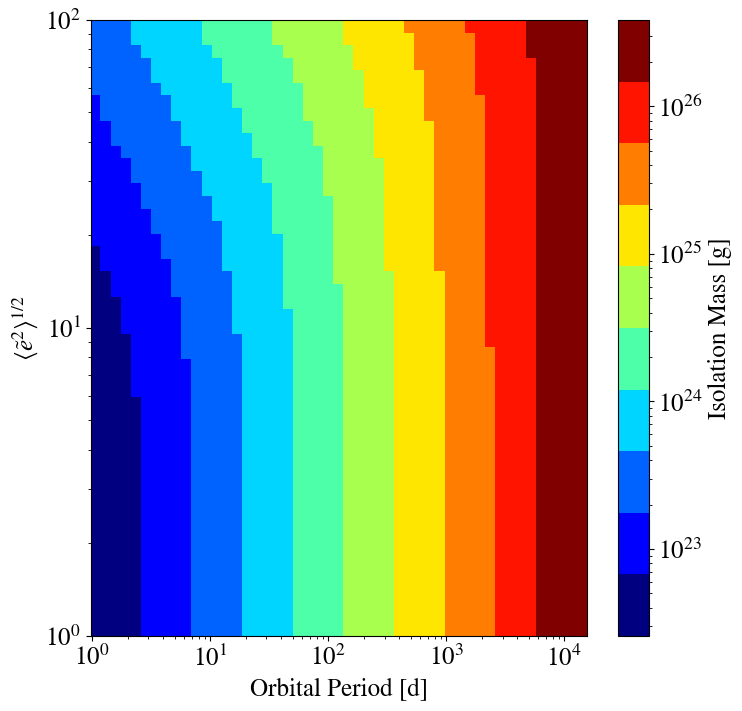
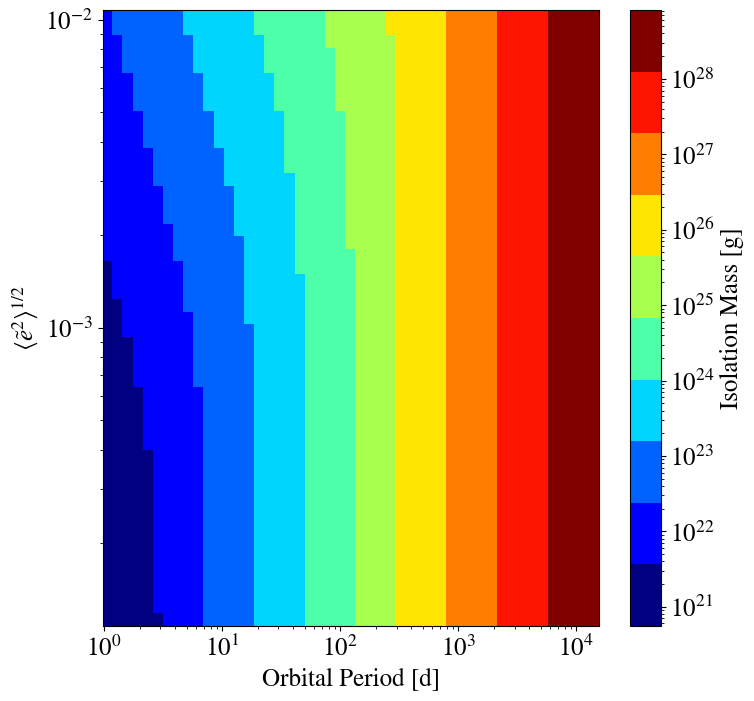
Change eccentricties in plots to non-hill values, add plot for stopping and radial drift times due to gas

Changed region(s): [[0.0, 0.0, 0.9919, 0.9886], [0.217, 0.4494, 0.279, 0.5093]]

diff --git a/makeFig.py b/makeFig.py
@@ -7,6 +7,7 @@ import pynbody as pb
 import natsort as ns
 import glob as gl
 import os
+import profileTools as pt
 
 from astropy import units as u
 from astropy.constants import G
@@ -36,19 +37,22 @@ def lnLam(b1, b2):
 
 sigma1 = 6
 f_disk = 1
-z = 1
 h = 1
 alpha = 1
 
+# Values for M stars from Backus + Quinn 2016
+q = 0.59
+T0 = 130
+mu = 2.34 # Hayashi 1981
+
+C_D = 1
+dust_to_gas = [0.01, 0.1, 0.5]
+
 rhop = 2
-m_central = (0.14*u.M_sun).to(u.g).value
+m_central = (0.13*u.M_sun).to(u.g).value
 Rp = (50*u.km).to(u.cm).value
 mp = 4/3*np.pi*Rp**3*rhop
 f_pl = [1., 3., 6.]
-
-# R in AU, returns units of g cm^-2
-def surf_den(r, sigma1, f_disk, z, alpha):
-    return sigma1*f_disk*z*r**(-alpha)*(m_central*u.g).to(u.M_sun).value**h
 
 def e_i(e_h):
     return e_h*(mp/(3*m_central))**(1/3)
@@ -56,31 +60,36 @@ def e_i(e_h):
 def e_h(e):
     return e*(mp/(3*m_central))**(-1/3)
 
-a_vals_au = np.logspace(-2, 0.8)
+a_vals_au = np.logspace(-2, 0.5)
 e_h_vals = np.logspace(0, 2)
 
-t_relax_vals = np.empty((len(a_vals_au), len(e_h_vals)))
-t_coll_vals = np.empty((len(a_vals_au), len(e_h_vals)))
-t_eq_eh_vals = np.empty((len(f_pl), len(a_vals_au)))
-
 a_vals = (a_vals_au*u.AU).to(u.cm).value
-t_orbit = (2*np.pi*np.sqrt((a_vals)**3/(G.cgs.value*m_central))*u.s).to(u.d).value
+t_orbit = pt.t_orb(a_vals, m_central)
+t_orbit_d = (t_orbit*u.s).to(u.d).value
+
+sigma_pl = pt.sigma_pl(alpha, sigma1, a_vals_au, f_disk)
+
+omega = np.sqrt(G.cgs.value*m_central/a_vals**3)
+vk = np.sqrt(G.cgs.value*m_central/a_vals)
 
 def plot_trel_tcoll_eq_gf():
 	file_str = 'figures/time_eq_gf.' + fmt
 	if not clobber and os.path.exists(file_str):
 		return
 
+	t_relax_vals = np.empty((len(a_vals_au), len(e_h_vals)))
+	t_coll_vals = np.empty((len(a_vals_au), len(e_h_vals)))
+	t_eq_e_vals = np.empty((len(f_pl), len(a_vals_au)))
+
 	for f_pl_idx in range(len(f_pl)):
 	    for idx in range(len(a_vals)):
 	        for idx1 in range(len(e_h_vals)):
 	            e_std = e_i(e_h_vals[idx1])
 	            i_std = e_std/2
-	            Sigma = surf_den(a_vals_au[idx], sigma1, f_disk, z, alpha)
 	            omega = np.sqrt(G.cgs.value*m_central/a_vals[idx]**3)
 	            vk = np.sqrt(G.cgs.value*m_central/a_vals[idx])
 	            sigma = np.sqrt(e_std**2 + i_std**2)*vk
-	            n = Sigma*omega/(2*mp*sigma)
+	            n = sigma_pl[idx]*omega/(2*mp*sigma)
 
 	            bmin = 2*G.cgs.value*mp/sigma**2
 	            bmax = a_vals[idx]
@@ -95,27 +104,26 @@ def plot_trel_tcoll_eq_gf():
 
 	        first_ind = np.where(t_relax_vals[idx] > t_coll_vals[idx])[0]
 	        if len(first_ind) > 0:
-	            t_eq_eh_vals[f_pl_idx][idx] = e_h_vals[first_ind][0]
+	            t_eq_e_vals[f_pl_idx][idx] = e_i(e_h_vals[first_ind][0])
 	        else:
-	            t_eq_eh_vals[f_pl_idx][idx] = np.inf
+	            t_eq_e_vals[f_pl_idx][idx] = np.inf
 
-	eh_gf_vals = np.empty((len(f_pl), len(a_vals)))
+	e_gf_vals = np.empty((len(f_pl), len(a_vals)))
 
 	for f_pl_idx in range(len(f_pl)):
 	    for idx in range(len(a_vals)):
-	        e_gf_vals = np.sqrt(4*mp*a_vals[idx]/(3*m_central*(f_pl[f_pl_idx]*Rp)))
-	        eh_gf_vals[f_pl_idx][idx] = e_h(e_gf_vals)
+	        e_gf_vals[f_pl_idx][idx] = np.sqrt(4*mp*a_vals[idx]/(3*m_central*(f_pl[f_pl_idx]*Rp)))
 
 	fig, axes = plt.subplots(figsize=(8,8))
 	for idx, val in enumerate(f_pl):
 	    c = next(axes._get_lines.prop_cycler)['color']
-	    axes.plot(t_orbit, t_eq_eh_vals[idx], label=r'f$_{pl}$ = ' + str(int(val)), linestyle='-', color=c)
-	    axes.plot(t_orbit, eh_gf_vals[idx], linestyle='--', color=c)
+	    axes.plot(t_orbit_d, t_eq_e_vals[idx], label=r'f$_{pl}$ = ' + str(int(val)), linestyle='-', color=c)
+	    axes.plot(t_orbit_d, e_gf_vals[idx], linestyle='--', color=c)
 	axes.legend()
 	axes.set_xscale('log')
 	axes.set_yscale('log')
 	axes.set_xlabel(r'Orbital Period [d]')
-	axes.set_ylabel(r'Equilibirum $\left< \tilde{e}^{2} \right>^{1/2}$')
+	axes.set_ylabel(r'Equilibirum $\left< e^{2} \right>^{1/2}$')
 	plt.savefig(file_str, format=fmt, bbox_inches='tight')
 
 def plot_m_iso():
@@ -123,28 +131,74 @@ def plot_m_iso():
 	if not clobber and os.path.exists(file_str):
 		return
 
+	def func(x, e_std, sigma_pl, a_val):
+	    i_std = e_std/2
+	    
+	    etilde, itilde = e_std*(10**x/(3*m_central))**(-1/3), i_std*(10**x/(3*m_central))**(-1/3)
+	    btilde = 2/np.sqrt(3)*np.sqrt(9 + etilde**2 + itilde**2)
+	    
+	    return np.log10(4*np.pi*a_val**2*btilde*sigma_pl*(10**x/(3*m_central))**(1/3)) - x
+
 	m_iso_vals = np.empty((len(a_vals_au), len(e_h_vals)))
 	for idx in range(len(a_vals)):
 	    for idx1 in range(len(e_h_vals)):
-	        def func(x):
-	            Sigma = surf_den(a_vals_au[idx], sigma1, f_disk, z, alpha)
-	            e_std = e_i(e_h_vals[idx1])
-	            i_std = e_std/2
-	            return np.log10(4*np.pi*a_vals[idx]**2*Sigma*2/np.sqrt(3)*(10**x/(3*m_central))**(1/3)* \
-	                            np.sqrt(9 + (10**x/(3*m_central))**(-2/3)*(e_std**2 + i_std**2))) - x
-	        m_iso_vals[idx][idx1] = 10**optimize.root(func, 25).x
+	        m_iso_vals[idx][idx1] = 10**optimize.root(func, 20, args=(e_i(e_h_vals[idx1]), sigma_pl[idx], a_vals[idx])).x
+
+	e_eq_vals = np.empty((len(dust_to_gas), len(t_orbit)))
+	for idx in range(len(dust_to_gas)):
+		cs = pt.soundspeed(T0, mu, q, a_vals_au)
+		vgas = pt.v_gas((m_central*u.g).to(u.M_sun).value, a_vals, cs, q)
+		rhogas = pt.rho_gas(cs, omega, sigma_pl, dust_to_gas[idx])
+		e_eq_vals[idx] = pt.e_eq(omega, sigma_pl, mp, Rp, C_D, vk, rhogas, vgas)
 
 	from matplotlib import cm
 	fig, axes = plt.subplots(figsize=(8,8))
 	cmap = mpl.cm.get_cmap('jet', 10)
-	cax = axes.pcolormesh(t_orbit, e_h_vals, np.flipud(np.rot90(m_iso_vals)), \
+	cax = axes.pcolormesh(t_orbit_d, e_i(e_h_vals), np.flipud(np.rot90(m_iso_vals)), \
 	                      norm=mpl.colors.LogNorm(), cmap=cmap)
+	for idx in range(len(dust_to_gas)):
+		axes.plot(t_orbit_d, e_eq_vals[idx], color='white')
 	cb = fig.colorbar(cax)
 	cb.set_label('Isolation Mass [g]')
 	axes.set_xlabel(r'Orbital Period [d]')
-	axes.set_ylabel(r'$\left< \tilde{e}^{2} \right>^{1/2}$')
+	axes.set_ylabel(r'$\left< e^{2} \right>^{1/2}$')
 	axes.set_xscale('log')
 	axes.set_yscale('log')
+	axes.set_xlim(np.min(t_orbit_d), np.max(t_orbit_d))
+	axes.set_ylim(np.min(e_i(e_h_vals)), np.max(e_i(e_h_vals)))
+	plt.savefig(file_str, format=fmt, bbox_inches='tight')
+
+def plot_gasdrag():
+	file_str = 'figures/gasdrag.' + fmt
+	if not clobber and os.path.exists(file_str):
+		return
+
+	t_stop_vals = np.empty((len(dust_to_gas), len(t_orbit)))
+	t_drift_vals = np.empty((len(dust_to_gas), len(t_orbit)))
+
+	for idx in range(len(dust_to_gas)):
+	    cs = pt.soundspeed(T0, mu, q, a_vals_au)
+	    vgas = pt.v_gas((m_central*u.g).to(u.M_sun).value, a_vals, cs, q)
+	    rhogas = pt.rho_gas(cs, omega, sigma_pl, dust_to_gas[idx])
+	    e_std = pt.e_eq(omega, sigma_pl, mp, Rp, C_D, vk, rhogas, vgas)
+	    t_stop = pt.t_stop(mp, Rp, C_D, rhogas, vgas)
+	    t_stop_vals[idx] = t_stop
+	    vr = 2*vgas/((t_stop*omega)+(1/(t_stop*omega)))
+	    t_drift_vals[idx] = a_vals/vr
+
+	fig, axes = plt.subplots(figsize=(16,8), nrows=1, ncols=2)
+	for idx in range(len(dust_to_gas)):
+	    axes[0].plot(t_orbit_d, t_stop_vals[idx]/t_orbit, label='d/g = '+str(dust_to_gas[idx]))
+	    axes[1].plot(t_orbit_d, t_drift_vals[idx]/t_orbit)
+	axes[0].set_xscale('log')
+	axes[0].set_yscale('log')
+	axes[0].set_xlabel('Orbital Period [d]')
+	axes[1].set_xlabel('Orbital Period [d]')
+	axes[0].set_ylabel('Stopping Time [orbits]')
+	axes[1].set_ylabel('Radial Drift Time [orbits]')
+	axes[1].set_xscale('log')
+	axes[1].set_yscale('log')
+	axes[0].legend()
 	plt.savefig(file_str, format=fmt, bbox_inches='tight')
 
 def make_plot():
@@ -162,5 +216,6 @@ def make_plot():
 
 	plt.savefig(file_str, format=fmt, bbox_inches='tight')
 
-plot_trel_tcoll_eq_gf()
+#plot_trel_tcoll_eq_gf()
 plot_m_iso()
+#plot_gasdrag()

diff --git a/main.tex b/main.tex
@@ -104,7 +104,7 @@ Figure \ref{fig:time_eq_gf} shows the Hill eccentricity required for these two t
 
 \begin{figure}
     \begin{center}
-    \includegraphics[width=0.5\columnwidth]{figures/time_eq_gf.png}
+    \includegraphics[width=0.4\columnwidth]{figures/time_eq_gf.png}
     \caption{Caption goes here.\label{fig:time_eq_gf}}
     \end{center}
 \end{figure}
@@ -159,12 +159,19 @@ If the growing protoplanets stay on circular orbits, $\tilde{b} \approx 2 \sqrt{
     M_{iso} = \frac{8}{\sqrt{3}} \left(2 \pi \Sigma \right)^{3/2} 3^{3/4} \left( 3 M_{*} \right)^{-1/2} a^{3}
 \end{equation}
 
-At short orbital periods where oligarchic growth may not operate, $\tilde{b}$ also depends on $\tilde{e}$ and $\tilde{h}$, which are functions of the eccentricity and inclination of the planetesimals, along with the final isolation mass of the embryos. $M_{iso}$ must be solved for numerically, which is shown in figure \ref{fig:m_iso} as a function of orbital period and the initial rms Hill eccentricity of the planetesimals.  As expected, the isolation mass grows at larger orbital periods, as embryos have access to a wider region of the disk. With a sufficiently hot planetesimal population, the isolation mass also grows. These results imply that if oligarchic growth does not operate, embryos will form fewer and larger. It is also plausible that the total mass in embryos will be larger, as a dynamically hot planetesimal population that is difficult to accrete will not form.
+At short orbital periods where oligarchic growth may not operate, $\tilde{b}$ also depends on $\tilde{e}$ and $\tilde{h}$, which are functions of the eccentricity and inclination of the planetesimals, along with the final isolation mass of the embryos. $M_{iso}$ must be solved for numerically, which is shown in figure \ref{fig:m_iso} as a function of orbital period and the initial rms Hill eccentricity of the planetesimals. The white curves show the equilibrium values of the eccentricity for a dust of gas ratio of 0.5, 0.1 and 0.01 (top to bottom). As expected, the isolation mass grows at larger orbital periods, as embryos have access to a wider region of the disk. With a sufficiently hot planetesimal population, the isolation mass also grows. These results imply that if oligarchic growth does not operate, embryos will form fewer and larger. It is also plausible that the total mass in embryos will be larger, as a dynamically hot planetesimal population that is difficult to accrete will not form.
 
 \begin{figure}
     \begin{center}
-    \includegraphics[width=0.5\columnwidth]{figures/m_iso.png}
+    \includegraphics[width=0.4\columnwidth]{figures/m_iso.png}
     \caption{Caption goes here.\label{fig:m_iso}}
+    \end{center}
+\end{figure}
+
+\begin{figure}
+    \begin{center}
+    \includegraphics[width=0.8\columnwidth]{figures/gasdrag.png}
+    \caption{Caption goes here.\label{fig:gasdrag}}
     \end{center}
 \end{figure}
 

diff --git a/profileTools.py b/profileTools.py
@@ -1,0 +1,75 @@
+# Tools for generating planetesimal and gas profiles in a PPD
+
+import numpy as np
+import astropy.units as u
+from astropy.constants import G, k_B, m_p
+
+# Convert between semimajor axis and orbital period (cgs units)
+def sma(t_orb, m_central):
+    return (G.cgs.value*m_central*(t_orb/(2*np.pi))**2)**(1/3)
+def t_orb(sma, m_central):
+    return 2*np.pi*np.sqrt(sma**3/(G.cgs.value*m_central))
+
+# Planetesimal surface density profile, r in AU
+def sigma_pl(alpha, A, r, f):
+    return f*A*r**(-alpha)
+
+# Convert solid surface density to gas surface density
+def sigma_gas(surf_den_pl, gas_to_dust):
+    return surf_den_pl/gas_to_dust
+
+# Midplane mass density of gas
+def rho_gas(cs, omega, surf_den_pl, gas_to_dust):
+    surf_den_gas = sigma_gas(surf_den_pl, gas_to_dust)
+    h_gas = cs/omega
+    return surf_den_gas/h_gas
+
+# Temperature profile of disk, r in AU
+def T_prof(T0, q, r):
+    return T0*r**(-q)
+
+# Sound speed profile of disk
+def soundspeed(T0, mu, q, r_AU):
+    T = T_prof(T0, q, r_AU)
+    return np.sqrt(k_B.cgs.value*T/(mu*m_p.cgs.value))
+
+# Toomre q parameter
+def toom_q(cs, omega, sigma):
+    return cs*omega/(np.pi*G.cgs*sigma)
+
+# Headwind velocity of gas in pressure-supported disk
+# r and m_central in cm and M_sun, cs in cm/s
+# q is the power law index of the pressure profile, which should be same as
+# temperature profile for an ideal gas
+def v_gas(m_central, r, cs, q):
+    m_central_cgs = (m_central*u.M_sun).to(u.g).value
+    v_k = np.sqrt(G.cgs.value*m_central_cgs/r)
+    return v_k*(1 - np.sqrt(1 - (q*cs**2/v_k**2)))
+
+# Stopping time of planetesimal in stokes regime
+def t_stop(m_pl, s_pl, C_D, rho_gas, v_gas):
+    return 2*m_pl/(C_D*np.pi*s_pl**2*rho_gas*v_gas)
+
+# Radial drift velocity of planetesimal in stokes regime (Weidenschilling 1997)
+def vr_drift(m_pl, s_pl, C_D, rho_gas, v_gas, omega):
+    ts = t_stop(m_pl, s_pl, C_D, rho_gas, v_gas)
+    return 2*v_gas/(omega*ts + 1/(omega*ts))
+
+# Relaxation time, equal to viscous stirring timescale in dispersion dominated regime
+def t_relax(v, n, m):
+    logLam = 3 # Is this true at short period?
+    return v**3/(np.pi*G.cgs.value**2*n*m**2*logLam)
+
+# Safronov collision timescale
+def t_coll(r, n_pl, v_pl, mp, rp):
+    vesc = np.sqrt(G.cgs.value*mp/rp)
+    theta = vesc/v_pl
+    cross = np.pi*(rp)**2*(1 + theta**2)
+    return 1/(n_pl*cross*v_pl)
+
+# Equilibirum eccentricity of planetesimals in gas
+# Derived by equating relaxation time (Ida 1993)
+# With the stopping time (Adachi 1976)
+def e_eq(omega, sigma_pl, m_pl, s_pl, C_D, vk, rho_gas, v_gas):
+    logLam = 3
+    return (G.cgs.value**2*m_pl**2*logLam*omega*sigma_pl/(C_D*s_pl**2*vk**4*rho_gas*v_gas))**(1/4)
